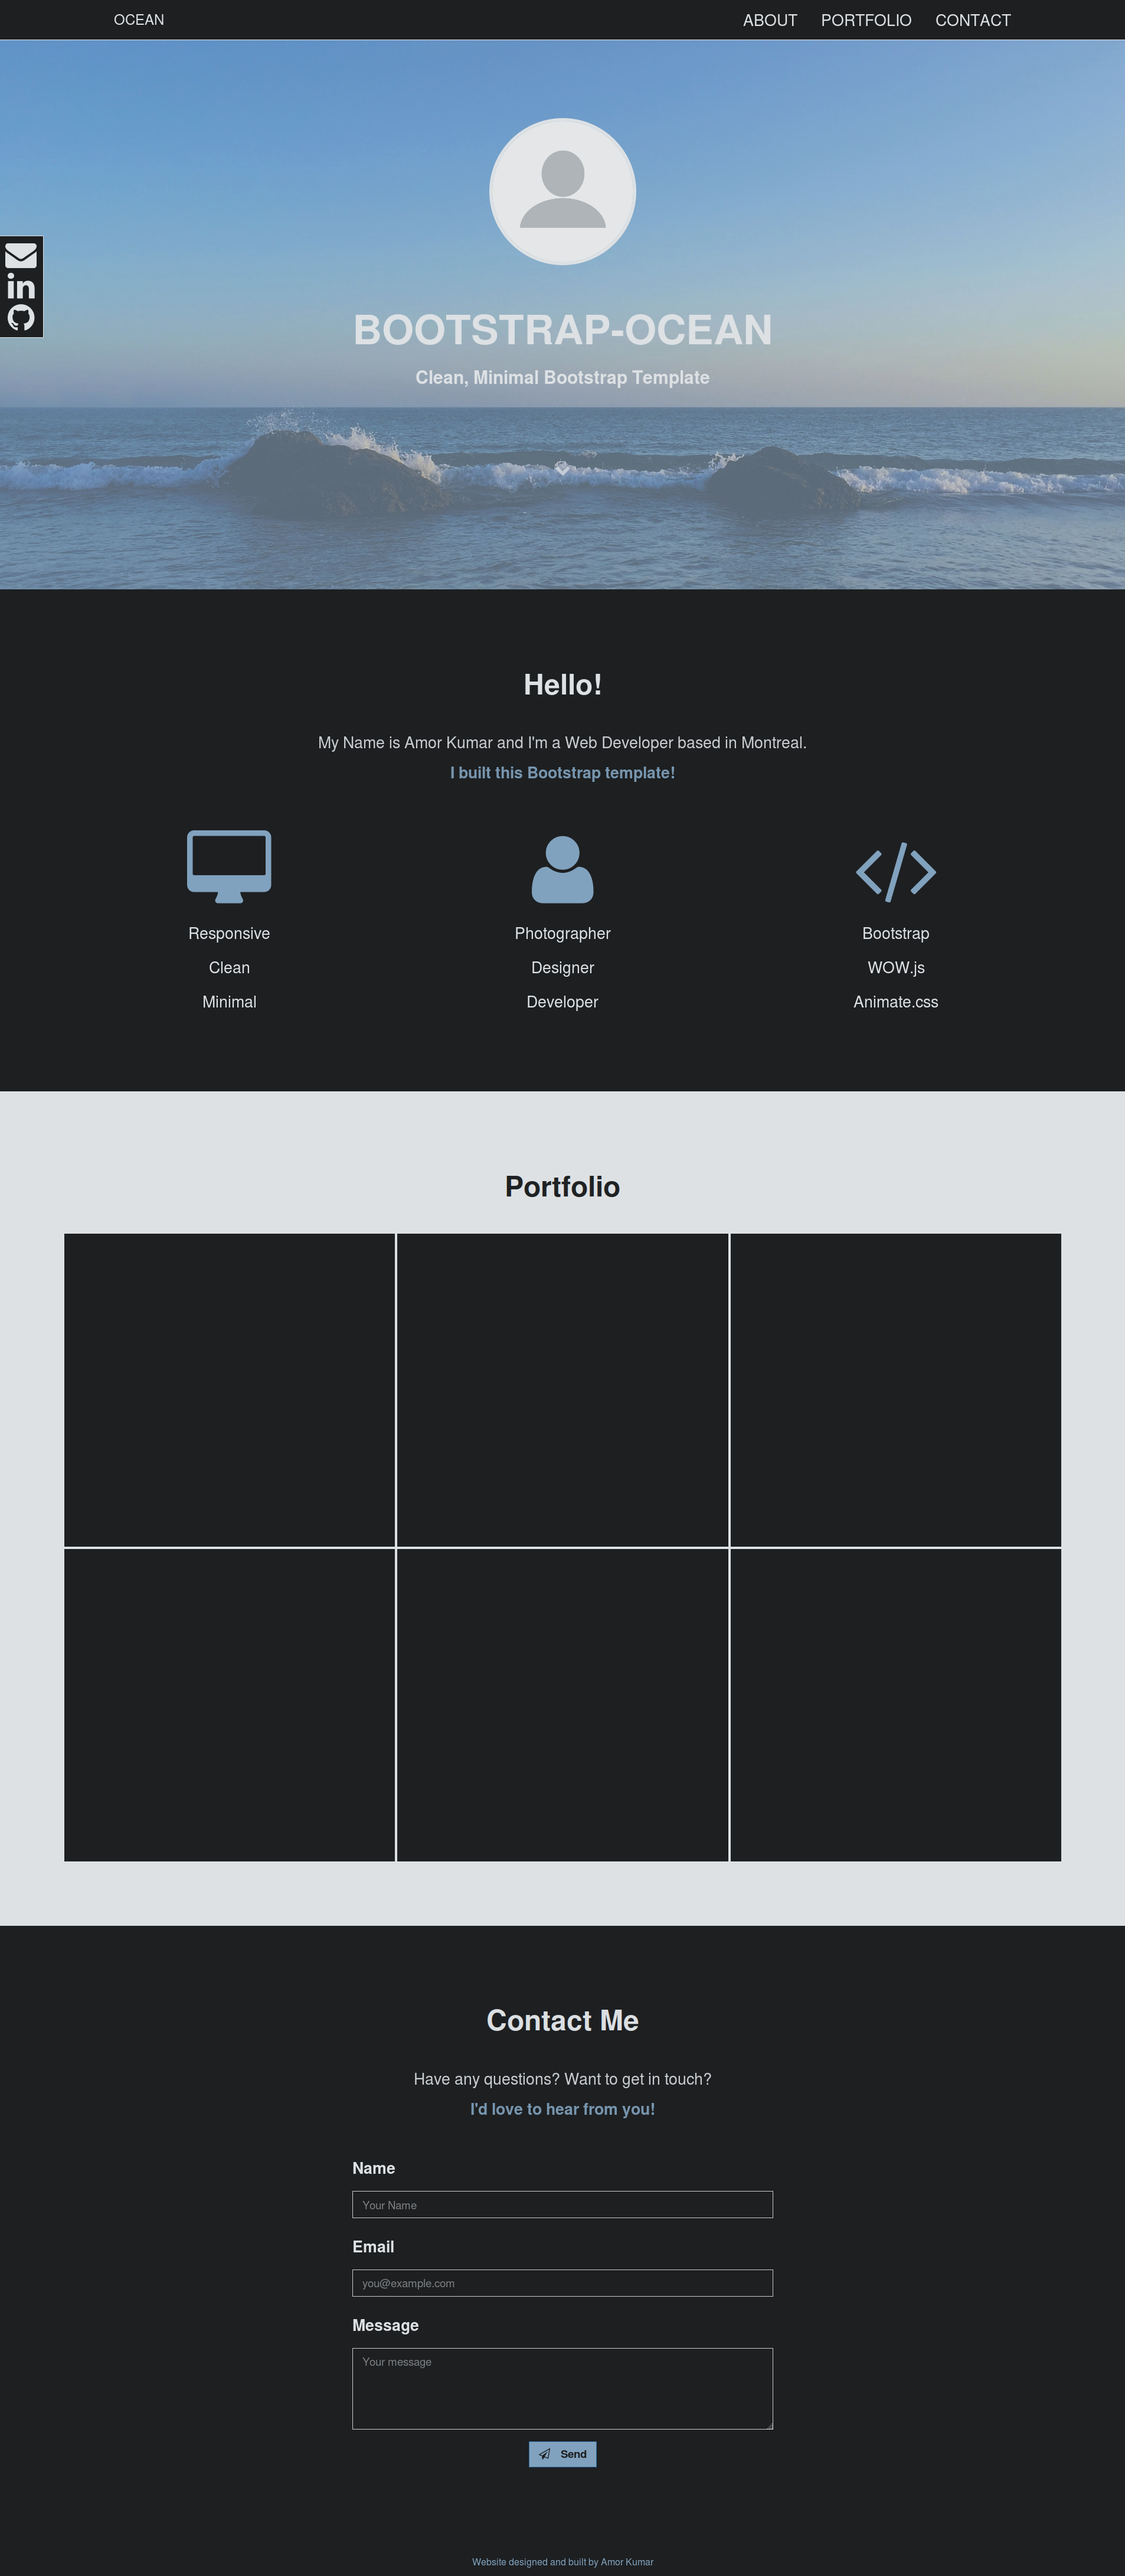
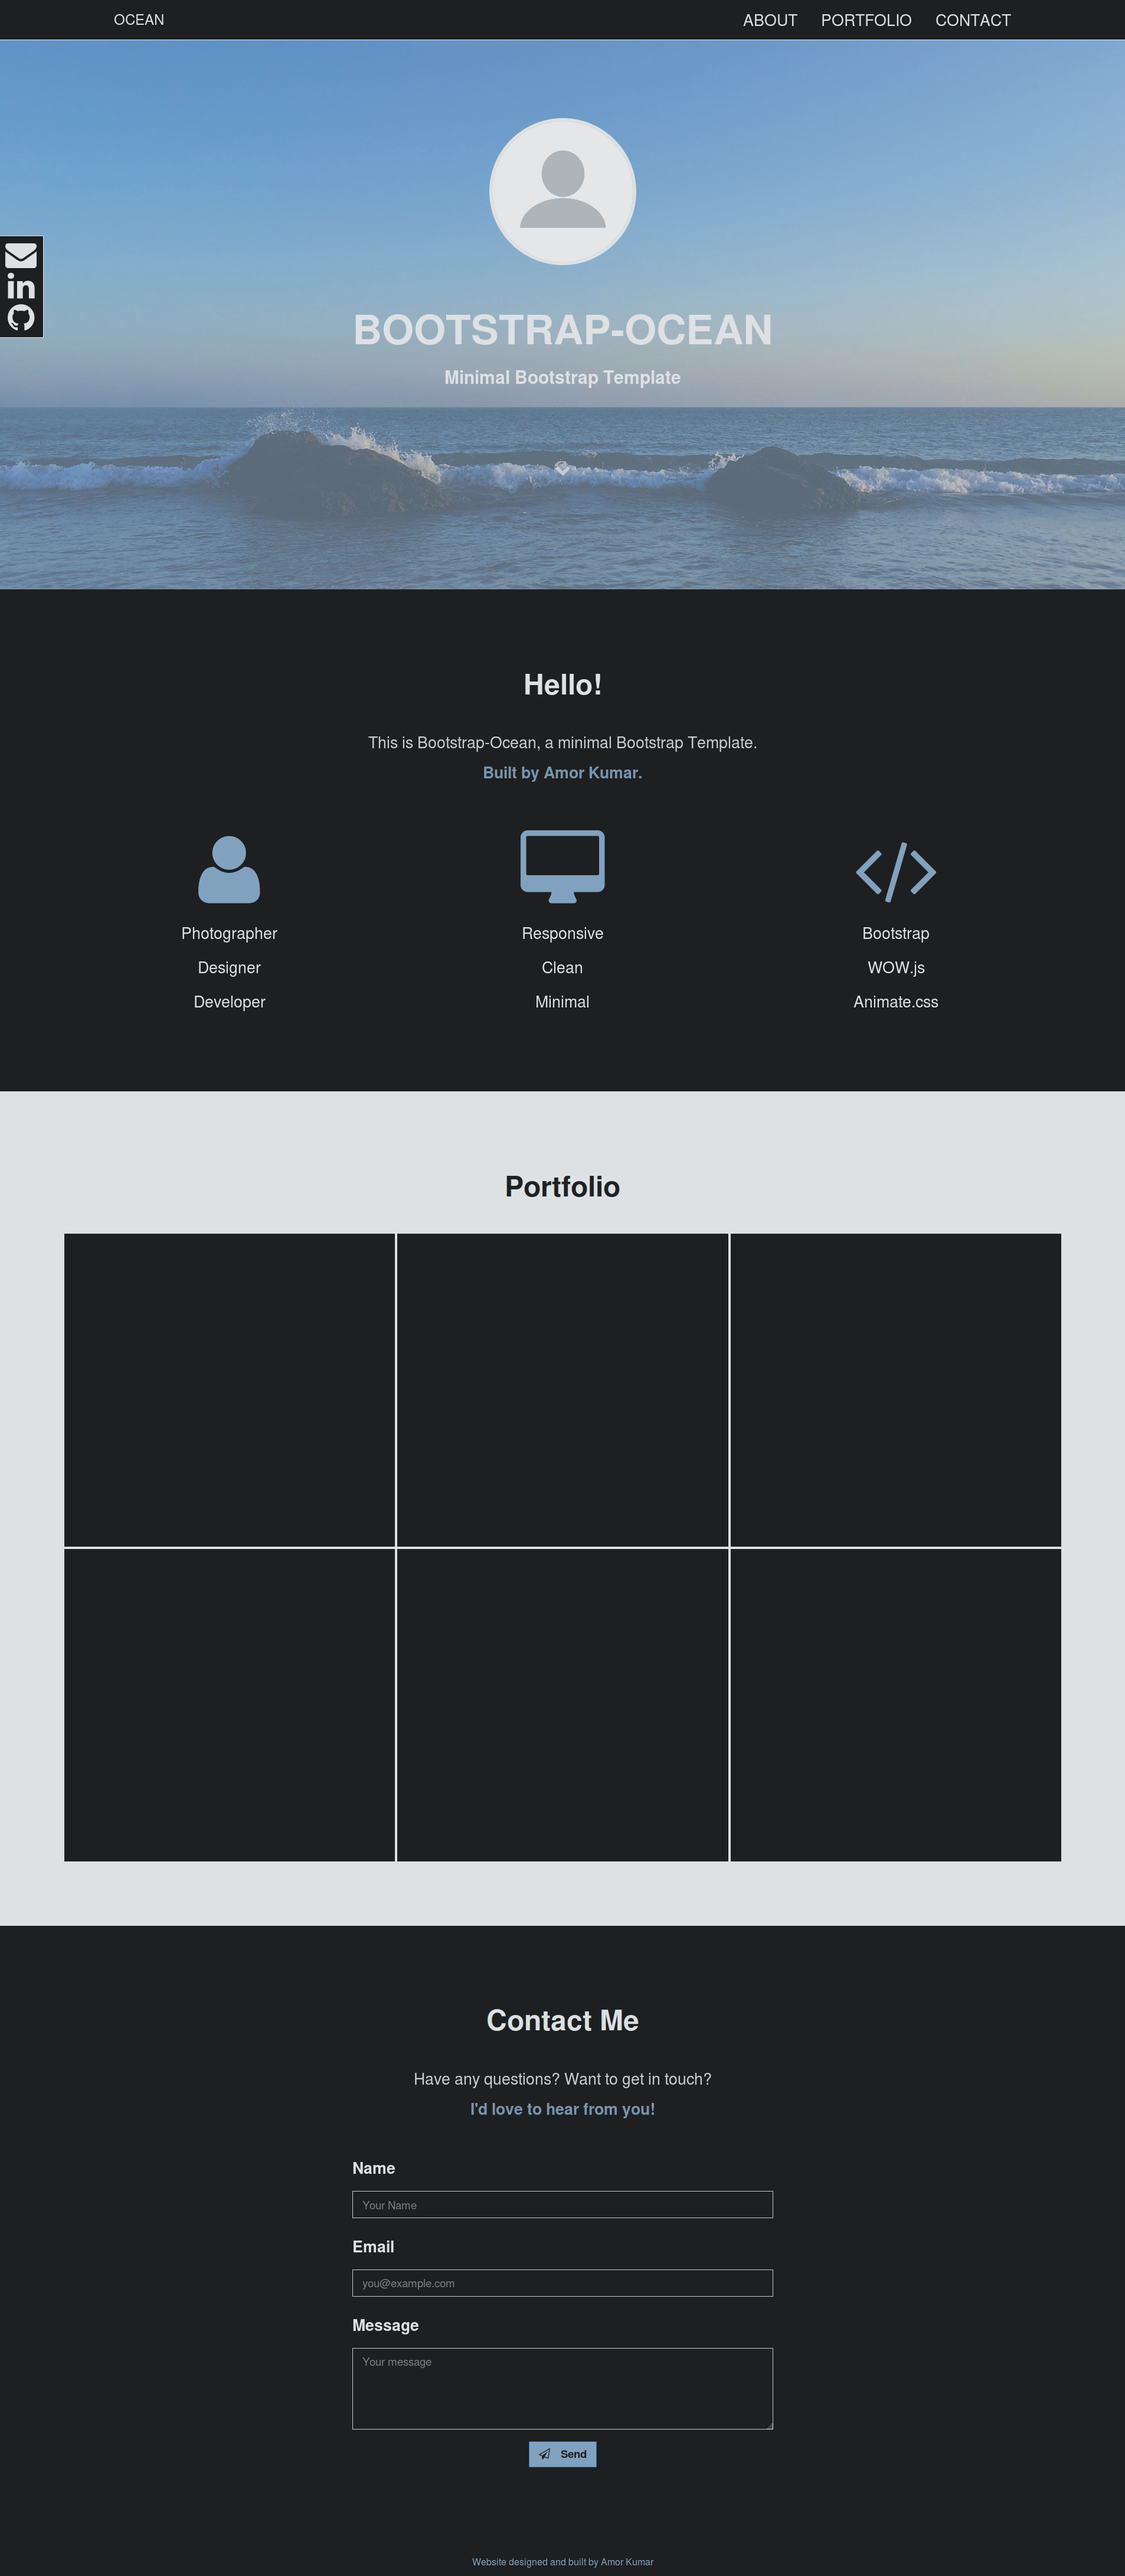
updated screenshots

Changed region(s): [[0.4024, 0.2806, 0.6191, 0.4053], [0.1548, 0.3118, 0.2476, 0.4053]]

diff --git a/index.html b/index.html
@@ -55,7 +55,7 @@
 			<div class="header-content-inner">
 				<span class="span"><img src="img/PP.png" id="profile-pic" class="img-circle img-responsive center-block bd-light" alt="profile picture"></span>
 				<h1 class="text-light text-bold">Bootstrap-Ocean</h1>
-				<h2 class="text-light text-bold">Clean, Minimal Bootstrap Template</h2>
+				<h2 class="text-light text-bold">Minimal Bootstrap Template</h2>
 			</div>
 			<div class="wow fadeInUpBig arrow-down text-center">
 				<a href="#about">
@@ -77,23 +77,11 @@
 			<div class="row">
 				<div class="col-sm-8 col-sm-offset-2">
 					<h1>Hello!</h1>
-					<p>My Name is Amor Kumar and I'm a Web Developer based in Montreal.</p>
-					<p class="text-bold text-blue">I built this Bootstrap template!</p>
+					<p>This is Bootstrap-Ocean, a minimal Bootstrap Template.</p>
+					<p class="text-bold text-blue">Built by Amor Kumar.</p>
 				</div>
 			</div>
 			<div class="row">
-				<div class="col-sm-4">
-					<div class="skills-section">
-						<div class="wow tada">
-							<i class="fa fa-desktop fa-5x text-blue"></i>
-						</div>
-						<ul>
-							<li>Responsive</li>
-							<li>Clean</li>
-							<li>Minimal</li>
-						</ul>
-					</div>
-				</div>
 				<div class="col-sm-4">
 					<div class="skills-section">
 						<div class="wow tada">
@@ -103,6 +91,18 @@
 						  	<li>Photographer</li>
 							<li>Designer</li>
 							<li>Developer</li>
+						</ul>
+					</div>
+				</div>
+			  	<div class="col-sm-4">
+					<div class="skills-section">
+						<div class="wow tada">
+							<i class="fa fa-desktop fa-5x text-blue"></i>
+						</div>
+						<ul>
+							<li>Responsive</li>
+							<li>Clean</li>
+							<li>Minimal</li>
 						</ul>
 					</div>
 				</div>
